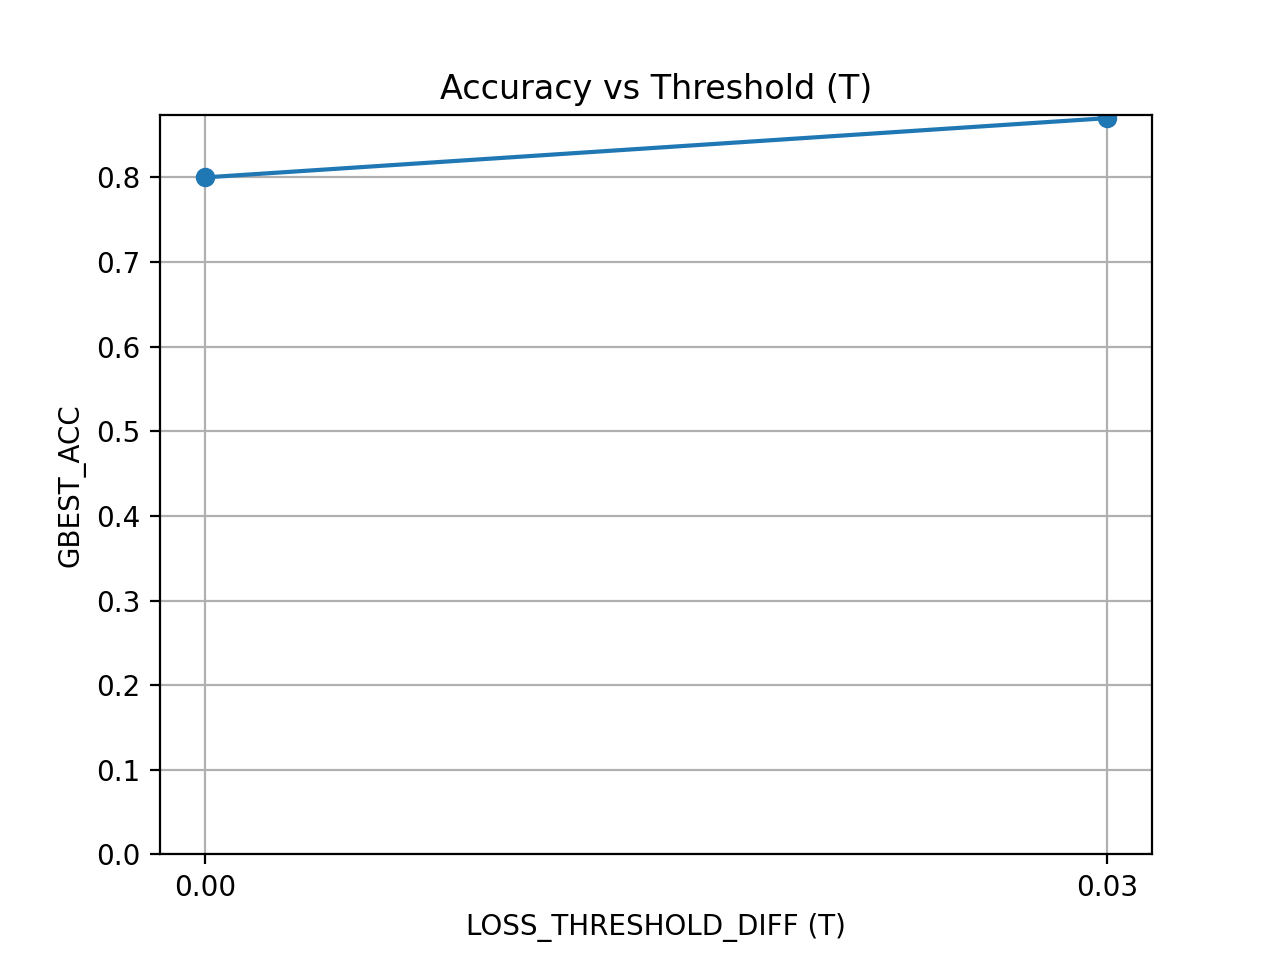
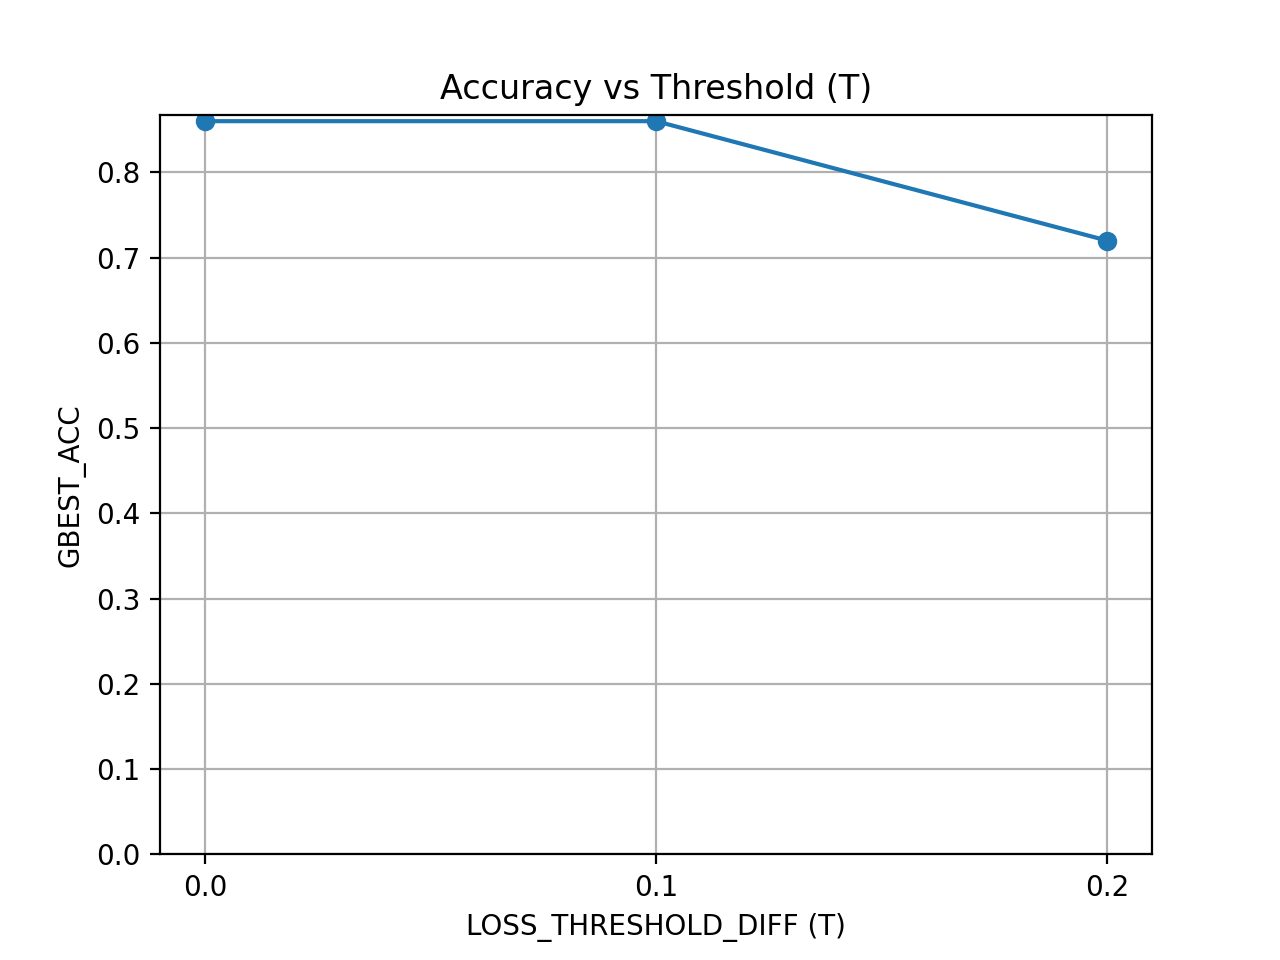
bfbf

diff --git a/python/pretraining/gd_pretrained.py b/python/pretraining/gd_pretrained.py
@@ -147,6 +147,74 @@ DATASET="CIFAR"
 # ======================================================================================================
 
 
+# if(DATASET == "CIFAR"):
+
+#     BATCH_SIZE = 32
+#     IMG_SIZE = (224, 224)
+#     NUM_CLASSES = 10
+#     EPOCHS = 10
+#     SEED = 42
+
+#     tf.random.set_seed(SEED)
+
+#     (x_train, y_train), (x_test, y_test) = tf.keras.datasets.cifar10.load_data()
+
+#     def preprocess(image, label):
+#         image = tf.cast(image, tf.float32)
+#         image = tf.image.resize(image, IMG_SIZE, method="bilinear")
+#         image = preprocess_input(image)  # -> float32 in [-1, 1], basically normalize
+#         label = tf.one_hot(tf.cast(label[0], tf.int32), NUM_CLASSES)    # 3  → [0,0,0,1,0,0,0,0,0,0] one hot lavel encoders
+#         return image, label
+
+#     train_ds = tf.data.Dataset.from_tensor_slices((x_train, y_train))
+#     train_ds = train_ds.shuffle(50000, seed=SEED, reshuffle_each_iteration=True)
+#     train_ds = train_ds.map(preprocess, num_parallel_calls=tf.data.AUTOTUNE)        # Applies preprocessing function to each sample in the tensor
+#     train_ds = train_ds.batch(BATCH_SIZE).prefetch(tf.data.AUTOTUNE)
+
+#     test_ds = tf.data.Dataset.from_tensor_slices((x_test, y_test))
+#     test_ds = test_ds.map(preprocess, num_parallel_calls=tf.data.AUTOTUNE)
+#     test_ds = test_ds.batch(BATCH_SIZE).prefetch(tf.data.AUTOTUNE)
+
+#     for images, labels in train_ds.take(1):
+#         print("Batch images:", images.shape, images.dtype, "range:", (tf.reduce_min(images).numpy(), tf.reduce_max(images).numpy()))
+#         print("Batch labels:", labels.shape, labels.dtype)
+
+#     base_model = tf.keras.applications.MobileNetV2(
+#         weights="imagenet",
+#         include_top=False,
+#         input_shape=(IMG_SIZE[0], IMG_SIZE[1], 3),
+#     )
+#     base_model.trainable = False  
+#     model = models.Sequential([
+#         base_model,
+#         layers.GlobalAveragePooling2D(),
+#         layers.Dense(128, activation="relu"),
+#         layers.Dropout(0.5),
+#         layers.Dense(NUM_CLASSES, activation="softmax")
+#     ])
+
+#     model.compile(
+#         optimizer=tf.keras.optimizers.Adam(1e-3),
+#         loss="categorical_crossentropy",
+#         metrics=["accuracy"],
+#     )
+
+#     model.summary()
+
+#     early_stop = EarlyStopping(monitor="val_loss", patience=3, restore_best_weights=True)
+
+#     history = model.fit(
+#         train_ds,
+#         validation_data=test_ds,
+#         epochs=EPOCHS,
+#         callbacks=[early_stop],
+#         verbose=2
+#     )
+
+#     loss, acc = model.evaluate(test_ds, verbose=0)
+#     print(f"Test Accuracy: {acc:.4f}")
+#     print(f"Test Loss:     {loss:.4f}")
+
 if(DATASET == "CIFAR"):
 
     BATCH_SIZE = 32
@@ -159,16 +227,18 @@ if(DATASET == "CIFAR"):
 
     (x_train, y_train), (x_test, y_test) = tf.keras.datasets.cifar10.load_data()
 
+    from tensorflow.keras.applications.mobilenet_v3 import preprocess_input
+
     def preprocess(image, label):
         image = tf.cast(image, tf.float32)
         image = tf.image.resize(image, IMG_SIZE, method="bilinear")
-        image = preprocess_input(image)  # -> float32 in [-1, 1], basically normalize
-        label = tf.one_hot(tf.cast(label[0], tf.int32), NUM_CLASSES)    # 3  → [0,0,0,1,0,0,0,0,0,0] one hot lavel encoders
+        image = preprocess_input(image)
+        label = tf.one_hot(tf.cast(label[0], tf.int32), NUM_CLASSES)
         return image, label
 
     train_ds = tf.data.Dataset.from_tensor_slices((x_train, y_train))
     train_ds = train_ds.shuffle(50000, seed=SEED, reshuffle_each_iteration=True)
-    train_ds = train_ds.map(preprocess, num_parallel_calls=tf.data.AUTOTUNE)        # Applies preprocessing function to each sample in the tensor
+    train_ds = train_ds.map(preprocess, num_parallel_calls=tf.data.AUTOTUNE)
     train_ds = train_ds.batch(BATCH_SIZE).prefetch(tf.data.AUTOTUNE)
 
     test_ds = tf.data.Dataset.from_tensor_slices((x_test, y_test))
@@ -176,21 +246,27 @@ if(DATASET == "CIFAR"):
     test_ds = test_ds.batch(BATCH_SIZE).prefetch(tf.data.AUTOTUNE)
 
     for images, labels in train_ds.take(1):
-        print("Batch images:", images.shape, images.dtype, "range:", (tf.reduce_min(images).numpy(), tf.reduce_max(images).numpy()))
+        print("Batch images:", images.shape, images.dtype,
+              "range:", (tf.reduce_min(images).numpy(), tf.reduce_max(images).numpy()))
         print("Batch labels:", labels.shape, labels.dtype)
 
-    base_model = tf.keras.applications.MobileNetV2(
+    # MobileNetV3Small backbone
+    base_model = tf.keras.applications.MobileNetV3Small(
         weights="imagenet",
         include_top=False,
         input_shape=(IMG_SIZE[0], IMG_SIZE[1], 3),
+        pooling="avg",          # optional: gives you a flat vector already
+        include_preprocessing=False,  # keep False since we manually preprocess in tf.data
     )
-    base_model.trainable = False  
-    model = models.Sequential([
+    base_model.trainable = False
+
+    model = tf.keras.Sequential([
         base_model,
-        layers.GlobalAveragePooling2D(),
-        layers.Dense(128, activation="relu"),
-        layers.Dropout(0.5),
-        layers.Dense(NUM_CLASSES, activation="softmax")
+        # If you REMOVE pooling="avg" above, then uncomment the next line:
+        # tf.keras.layers.GlobalAveragePooling2D(),
+        tf.keras.layers.Dense(128, activation="relu"),
+        tf.keras.layers.Dropout(0.5),
+        tf.keras.layers.Dense(NUM_CLASSES, activation="softmax")
     ])
 
     model.compile(
@@ -201,7 +277,9 @@ if(DATASET == "CIFAR"):
 
     model.summary()
 
-    early_stop = EarlyStopping(monitor="val_loss", patience=3, restore_best_weights=True)
+    early_stop = tf.keras.callbacks.EarlyStopping(
+        monitor="val_loss", patience=3, restore_best_weights=True
+    )
 
     history = model.fit(
         train_ds,
@@ -214,7 +292,6 @@ if(DATASET == "CIFAR"):
     loss, acc = model.evaluate(test_ds, verbose=0)
     print(f"Test Accuracy: {acc:.4f}")
     print(f"Test Loss:     {loss:.4f}")
-
 
 # ======================================================================================================
 

diff --git a/java/src/main/java/experimentation/Experimentation.java b/java/src/main/java/experimentation/Experimentation.java
@@ -16,12 +16,15 @@ public class Experimentation {
 
     private static final Config cfg = Config.getInstance();
     private static String bootstrap = "localhost:9092";
-    private static final float THRESH_CENTER = 0.055f;
-    private static final float MIN_FLOOR = 0.001f;
-    private static final float LOSS_THRESHOLD_MIN_ORIGINAL = cfg.LOSS_THRESHOLD_MIN;
-    private static final float LOSS_THRESHOLD_MAX_ORIGINAL = cfg.LOSS_THRESHOLD_MAX;
+    private static float LOSS_THRESHOLD_MIN_ORIGINAL;
+    private static float LOSS_THRESHOLD_MAX_ORIGINAL;
 
     public static void main(String[] args) throws Exception {
+
+        cfg.LOSS_THRESHOLD_MAX = 0.05f;
+        cfg.LOSS_THRESHOLD_MIN = 0.005f;
+        LOSS_THRESHOLD_MIN_ORIGINAL = cfg.LOSS_THRESHOLD_MIN;
+        LOSS_THRESHOLD_MAX_ORIGINAL = cfg.LOSS_THRESHOLD_MAX;
 
         if(cfg.EXPERIMENTATION_MODE.equals("N_WORKERS")) {
             List<Integer> workersList = List.of(2, 4, 6);
@@ -94,7 +97,7 @@ public class Experimentation {
         } else if(cfg.EXPERIMENTATION_MODE.equals("THRESHOLD")){
                          
             // List<Float> theshold_offset_list = List.of(0.01f, 0.02f, 0.03f);
-            List<Float> theshold_offset_list = List.of(0.00f, 0.03f);
+            List<Float> theshold_offset_list = List.of(0.00f, 0.1f, 0.2f);
 
             // Path csvPath = createUniqueCsvPath("experimental_results_v1", "results");
             Path dir = Path.of("experimental_results_v2");
